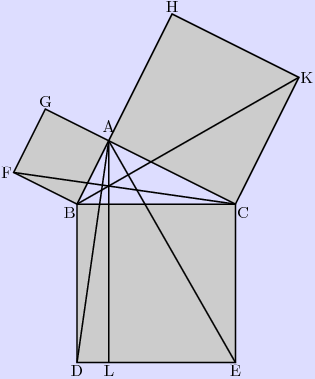
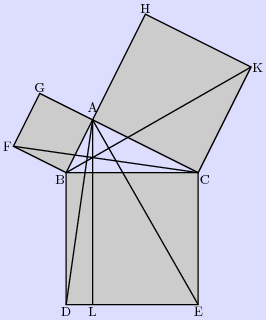
Some improvements: frontpage images shrunk and ff resizing removed, boxes made to line up at the tops of pages
git-svn-id: svn://127.0.0.1/pplsvn@802 8e462c0f-ee70-4953-a96e-5db927b55778

diff --git a/extras/website/source/download-archive.html b/extras/website/source/download-archive.html
@@ -1,6 +1,7 @@
 <<SET title: Archive>>
 <<INCLUDE header.html>>
 
+<div style="padding-top: 0.7em">
 <p>
 	This is a download page for older versions of PyXPlot.  The latest stable beta release is version <<VARIABLE current>> and can be downloaded <a href="<<ROOT>><<VARIABLE currentURI>>">here</a>.
 </p>
@@ -15,10 +16,10 @@ The following beta releases of PyXPlot are available:
 <table frame="box" rules="all">
 <tfoot><tr><td></td><td></td><td></td><td></td></tr></tfoot>
 <tbody>
-<tr><th>Version </th><th>Date</th><th>Files</th><th>Downloads</th></tr>
-<tr><td>0.7.1</td><td>November 17th 2009</td>     <td><a href="src/pyxplot_0.7.1.tar.gz">tar.gz</a> (2.4MB) </td><td><!--#include virtual="counter/0.7.1" --></td></tr>
-<tr><td>0.6.3.1</td><td>March 15th 2007</td>     <td><a href="src/pyxplot_0.6.3.1.tar.gz">tar.gz</a> (839kB) <a href="src/pyxplot_0.6.3.1_all.deb">deb</a> (1.3MB)</td><td><!--#include virtual="counter/0.6.3.1" --></td></tr>
-<tr><td>0.5.8</td><td>September 9th 2006</td>     <td><a href="src/pyxplot_0.5.8.tar.gz">tar.gz</a> (508kB) <a href="src/pyxplot_0.5.8-1_all.deb">deb</a> (1.6MB)</td><td><!--#include virtual="counter/0.5.8" --></td></tr>
+<tr><th>Version </th><th>Date</th><th>Files</th></tr>
+<tr><td>0.7.1</td><td>November 17th 2009</td>     <td><a href="src/pyxplot_0.7.1.tar.gz">tar.gz</a> (2.4MB) </td></tr>
+<tr><td>0.6.3.1</td><td>March 15th 2007</td>     <td><a href="src/pyxplot_0.6.3.1.tar.gz">tar.gz</a> (839kB) <a href="src/pyxplot_0.6.3.1_all.deb">deb</a> (1.3MB)</td></tr>
+<tr><td>0.5.8</td><td>September 9th 2006</td>     <td><a href="src/pyxplot_0.5.8.tar.gz">tar.gz</a> (508kB) <a href="src/pyxplot_0.5.8-1_all.deb">deb</a> (1.6MB)</td></tr>
 </tbody>
 </table>
 
@@ -33,30 +34,31 @@ general use. <!-- Version 0.6.x will appear here in due course.-->
 <table frame="box" rules="all">
 <tfoot><tr><td></td><td></td><td></td><td></td></tr></tfoot>
 <tr><th>Version</th><th>Date</th><th>Files</th><th>Downloads</th></tr>
-<tr><td>0.7.0</td><td>December 2nd 2008</td>     <td><a href="src/pyxplot_0.7.0.tar.gz">tar.gz</a> (1019kB) </td><td><!--#include virtual="counter/0.7.0" --></td></tr>
-<tr class='newsect'><td>0.6.3.1</td><td>March 15th 2007</td>     <td><a href="src/pyxplot_0.6.3.1.tar.gz">tar.gz</a> (839kB) <a href="src/pyxplot_0.6.3.1_all.deb">deb</a> (1.3MB)</td><td><!--#include virtual="counter/0.6.3.1" --></td></tr>
-<tr><td>0.6.3</td><td>February 26th 2007</td>     <td><a href="src/pyxplot_0.6.3.tar.gz">tar.gz</a> (839kB) <a href="src/pyxplot_0.6.3_all.deb">deb</a> (1.3MB)</td><td><!--#include virtual="counter/0.6.3" --></td></tr>
-<tr><td>0.6.2</td><td>January 19th 2007</td>     <td><a href="src/pyxplot_0.6.2.tar.gz">tar.gz</a> (548kB) <a href="src/pyxplot_0.6.2-1_all.deb">deb</a> (1.8MB)</td><td><!--#include virtual="counter/0.6.2" --></td></tr>
-<tr><td>0.6.1</td><td>December 27th 2006</td>     <td><a href="src/pyxplot_0.6.1.tar.gz">tar.gz</a> (548kB) <a href="src/pyxplot_0.6.1_all.deb">deb</a> (1.8MB)</td><td><!--#include virtual="counter/0.6.1" --></td></tr>
-<tr><td>0.6.0</td><td>November 13th 2006</td>     <td><a href="src/pyxplot_0.6.0.tar.gz">tar.gz</a> (530kB) <a href="src/pyxplot_0.6.0-2_all.deb">deb</a> (1.6MB)</td><td><!--#include virtual="counter/0.6.0" --></td></tr>
-<tr class='newsect'><td>0.5.8</td><td>September 9th 2006</td>     <td><a href="src/pyxplot_0.5.8.tar.gz">tar.gz</a> (508kB) <a href="src/pyxplot_0.5.8-1_all.deb">deb</a> (1.6MB)</td><td><!--#include virtual="counter/0.5.8" --></td></tr>
-<tr><td>0.5.7</td><td>August 26th 2006</td>     <td><a href="src/pyxplot_0.5.7.tar.gz">tar.gz</a> (507kB) <a href="src/pyxplot_0.5.7_all.deb">deb</a> (1.6MB)</td><td><!--#include virtual="counter/0.5.7" --></td></tr>
-<tr><td>0.5.6</td><td>August 18th 2006</td>     <td><a href="src/pyxplot_0.5.6.tar.gz">tar.gz</a> (497kB) <a href="src/pyxplot_0.5.6_all.deb">deb</a> (1.6MB)</td><td><!--#include virtual="counter/0.5.6" --></td></tr>
-<tr><td>0.5.5</td><td>July 25th 2006</td>     <td><a href="src/pyxplot_0.5.5.tar.gz">tar.gz</a> (478kB) <a href="src/pyxplot_0.5.5-2_all.deb">deb</a> (1.5MB)</td><td><!--#include virtual="counter/0.5.5" --></td></tr>
-<tr><td>0.5.4</td><td>July 3rd 2006</td>     <td><a href="src/pyxplot_0.5.4.tar.gz">tar.gz</a> (465kB) <a href="src/pyxplot_0.5.4-1_all.deb">deb</a> (1.5MB)</td><td><!--#include virtual="counter/0.5.4" --></td></tr>
-<tr><td>0.5.3</td><td>June 27th 2006</td>     <td><a href="src/pyxplot_0.5.3.tar.gz">tar.gz</a> (459kB)</td><td><!--#include virtual="counter/0.5.3" --></td></tr>
-<tr><td>0.5.2</td><td>June 14th 2006</td>     <td><a href="src/pyxplot_0.5.2.tar.gz">tar.gz</a> (450kB)</td><td><!--#include virtual="counter/0.5.2" --></td></tr>
-<tr><td>0.5.1</td><td>June 2nd 2006</td>     <td><a href="src/pyxplot_0.5.1.tar.gz">tar.gz</a> (436kB)</td><td><!--#include virtual="counter/0.5.1" --></td></tr>
-<tr><td>0.5.0</td><td>May 27th 2006</td>     <td><a href="src/pyxplot_0.5.0.tar.gz">tar.gz</a> (249kB)</td><td><!--#include virtual="counter/0.5.0" --></td></tr>
-<tr class='newsect'><td>0.4.3</td><td>May 18th 2006</td>     <td><a href="src/gnuplot_0.4.3.tar.gz">tar.gz</a> (73kB)</td><td><!--#include virtual="counter/0.4.3" --></td></tr>
-<tr><td>0.4.2</td><td>May 4th 2006</td>      <td><a href="src/gnuplot_0.4.2.tar.gz">tar.gz</a> (72kB)</td><td><!--#include virtual="counter/0.4.2" --></td></tr>
-<tr><td>0.4.1</td><td>May 1st 2006</td>      <td><a href="src/gnuplot_0.4.1.tar.gz">tar.gz</a> (66kB)</td><td><!--#include virtual="counter/0.4.1" --></td></tr>
-<tr><td>0.4.0</td><td>April 27th 2006</td>   <td><a href="src/gnuplot_0.4.0.tar.gz">tar.gz</a> (25kB)</td><td><!--#include virtual="counter/0.4.0" --></td></tr>
-<tr class='newsect'><td>0.3.2</td><td>April 14th 2006</td>   <td><a href="src/gnuplot_0.3.2.tar.gz">tar.gz</a> (22kB)</td><td><!--#include virtual="counter/0.3.2" --></td></tr>
-<tr><td>0.3.1</td><td>April 12th 2006</td>   <td><a href="src/gnuplot_0.3.1.tar.gz">tar.gz</a> (21kB)</td><td><!--#include virtual="counter/0.3.1" --></td></tr>
-<tr><td>0.3.0</td><td>April 12th 2006</td>   <td><a href="src/gnuplot_0.3.0.tar.gz">tar.gz</a> (21kB)</td><td><!--#include virtual="counter/0.3.0" --></td></tr>
-<tr class='newsect'><td>0.2.0</td><td>March 30th 2006</td>   <td><a href="src/gnuplot_0.2.0.tar.gz">tar.gz</a> (18kB)</td><td><!--#include virtual="counter/0.2.0" --></td></tr>
-<tr class='newsect'><td>0.1.0</td><td>February 26th 2006</td><td><a href="src/gnuplot_0.1.0.tar.gz">tar.gz</a> (16kB)</td><td><!--#include virtual="counter/0.1.0" --></td></tr>
+<tr><td>0.7.0</td><td>December 2nd 2008</td>     <td><a href="src/pyxplot_0.7.0.tar.gz">tar.gz</a> (1019kB) </td></tr>
+<tr class='newsect'><td>0.6.3.1</td><td>March 15th 2007</td>     <td><a href="src/pyxplot_0.6.3.1.tar.gz">tar.gz</a> (839kB) <a href="src/pyxplot_0.6.3.1_all.deb">deb</a> (1.3MB)</td></tr>
+<tr><td>0.6.3</td><td>February 26th 2007</td>     <td><a href="src/pyxplot_0.6.3.tar.gz">tar.gz</a> (839kB) <a href="src/pyxplot_0.6.3_all.deb">deb</a> (1.3MB)</td></tr>
+<tr><td>0.6.2</td><td>January 19th 2007</td>     <td><a href="src/pyxplot_0.6.2.tar.gz">tar.gz</a> (548kB) <a href="src/pyxplot_0.6.2-1_all.deb">deb</a> (1.8MB)</td></tr>
+<tr><td>0.6.1</td><td>December 27th 2006</td>     <td><a href="src/pyxplot_0.6.1.tar.gz">tar.gz</a> (548kB) <a href="src/pyxplot_0.6.1_all.deb">deb</a> (1.8MB)</td></tr>
+<tr><td>0.6.0</td><td>November 13th 2006</td>     <td><a href="src/pyxplot_0.6.0.tar.gz">tar.gz</a> (530kB) <a href="src/pyxplot_0.6.0-2_all.deb">deb</a> (1.6MB)</td></tr>
+<tr class='newsect'><td>0.5.8</td><td>September 9th 2006</td>     <td><a href="src/pyxplot_0.5.8.tar.gz">tar.gz</a> (508kB) <a href="src/pyxplot_0.5.8-1_all.deb">deb</a> (1.6MB)</td></tr>
+<tr><td>0.5.7</td><td>August 26th 2006</td>     <td><a href="src/pyxplot_0.5.7.tar.gz">tar.gz</a> (507kB) <a href="src/pyxplot_0.5.7_all.deb">deb</a> (1.6MB)</td></tr>
+<tr><td>0.5.6</td><td>August 18th 2006</td>     <td><a href="src/pyxplot_0.5.6.tar.gz">tar.gz</a> (497kB) <a href="src/pyxplot_0.5.6_all.deb">deb</a> (1.6MB)</td></tr>
+<tr><td>0.5.5</td><td>July 25th 2006</td>     <td><a href="src/pyxplot_0.5.5.tar.gz">tar.gz</a> (478kB) <a href="src/pyxplot_0.5.5-2_all.deb">deb</a> (1.5MB)</td></tr>
+<tr><td>0.5.4</td><td>July 3rd 2006</td>     <td><a href="src/pyxplot_0.5.4.tar.gz">tar.gz</a> (465kB) <a href="src/pyxplot_0.5.4-1_all.deb">deb</a> (1.5MB)</td></tr>
+<tr><td>0.5.3</td><td>June 27th 2006</td>     <td><a href="src/pyxplot_0.5.3.tar.gz">tar.gz</a> (459kB)</td></tr>
+<tr><td>0.5.2</td><td>June 14th 2006</td>     <td><a href="src/pyxplot_0.5.2.tar.gz">tar.gz</a> (450kB)</td></tr>
+<tr><td>0.5.1</td><td>June 2nd 2006</td>     <td><a href="src/pyxplot_0.5.1.tar.gz">tar.gz</a> (436kB)</td></tr>
+<tr><td>0.5.0</td><td>May 27th 2006</td>     <td><a href="src/pyxplot_0.5.0.tar.gz">tar.gz</a> (249kB)</td></tr>
+<tr class='newsect'><td>0.4.3</td><td>May 18th 2006</td>     <td><a href="src/gnuplot_0.4.3.tar.gz">tar.gz</a> (73kB)</td></tr>
+<tr><td>0.4.2</td><td>May 4th 2006</td>      <td><a href="src/gnuplot_0.4.2.tar.gz">tar.gz</a> (72kB)</td></tr>
+<tr><td>0.4.1</td><td>May 1st 2006</td>      <td><a href="src/gnuplot_0.4.1.tar.gz">tar.gz</a> (66kB)</td></tr>
+<tr><td>0.4.0</td><td>April 27th 2006</td>   <td><a href="src/gnuplot_0.4.0.tar.gz">tar.gz</a> (25kB)</td></tr>
+<tr class='newsect'><td>0.3.2</td><td>April 14th 2006</td>   <td><a href="src/gnuplot_0.3.2.tar.gz">tar.gz</a> (22kB)</td></tr>
+<tr><td>0.3.1</td><td>April 12th 2006</td>   <td><a href="src/gnuplot_0.3.1.tar.gz">tar.gz</a> (21kB)</td></tr>
+<tr><td>0.3.0</td><td>April 12th 2006</td>   <td><a href="src/gnuplot_0.3.0.tar.gz">tar.gz</a> (21kB)</td></tr>
+<tr class='newsect'><td>0.2.0</td><td>March 30th 2006</td>   <td><a href="src/gnuplot_0.2.0.tar.gz">tar.gz</a> (18kB)</td></tr>
+<tr class='newsect'><td>0.1.0</td><td>February 26th 2006</td><td><a href="src/gnuplot_0.1.0.tar.gz">tar.gz</a> (16kB)</td></tr>
 </table>
+</div>
 
 <<INCLUDE footer.html>>

diff --git a/extras/website/source/index.html b/extras/website/source/index.html
@@ -30,9 +30,9 @@ calculator.
 			is capable of, more of which can be found in the <a
 			href="examples">examples</a>.
 		</p>
-		<img width="300px" src="<<IMGDIR>>ex_hrdiagram.png" />
-		<img width="300px" src="<<IMGDIR>>ex_euclid_I_47.png" />
-		<img width="300px" src="<<IMGDIR>>ex_fft.png" />
+		<img style="padding-right: 0;" src="<<IMGDIR>>ex_hrdiagram.png" />
+		<img style="padding-right: 0;" src="<<IMGDIR>>ex_euclid_I_47.png" />
+		<img style="padding-right: 0;" src="<<IMGDIR>>ex_fft.png" />
 	</div>
 
 

diff --git a/extras/website/source/download-older.html b/extras/website/source/download-older.html
@@ -1,6 +1,7 @@
 <<SET title: Download>>
 <<INCLUDE header.html>>
 
+<div style="padding-top: 0.7em">
 <p>
 	This is a download page for an older version of PyXPlot.  The latest stable beta release is version <<VARIABLE current>> and can be downloaded <a href="<<ROOT>><<VARIABLE currentURI>>">here</a>.
 </p>
@@ -13,6 +14,7 @@
 <p>
     An <a href="<<ROOT>>archive.html">archive</a> of old PyXPlot releases is also available.
 </p>
+</div>
 
 
 <<INCLUDE footer.html>>

diff --git a/extras/website/source/download-latest.html b/extras/website/source/download-latest.html
@@ -1,6 +1,7 @@
 <<SET title: Download>>
 <<INCLUDE header.html>>
 
+<div style="padding-top: 0.7em">
 <p>
 	 The latest stable beta release of PyXPlot is version <<VARIABLE version>>
     and is available to download as a <a href="<<ROOT>>src/pyxplot_<<VARIABLE version>>.tar.gz">gzipped tar file</a>.
@@ -9,6 +10,7 @@
 <p>
     An <a href="<<ROOT>>archive.html">archive</a> of old PyXPlot releases is also available.
 </p>
+</div>
 
 
 <<INCLUDE footer.html>>

diff --git a/extras/website/source/doc.html b/extras/website/source/doc.html
@@ -1,10 +1,12 @@
 <<SET title: Documentation>>
 <<INCLUDE header.html>>
 
+<div style="padding-top: 0.7em">
 <p>
 	This documentation describes the <<VARIABLE version>> stable beta release of PyXPlot.  The
    <a href="pyxplot.pdf">manual</a> can be downloaded as a PDF file or <a href="html/">browsed online</a>.
 </p>
+</div>
 
 
 <<INCLUDE footer.html>>

diff --git a/extras/website/source/authors.html b/extras/website/source/authors.html
@@ -1,6 +1,7 @@
 <<SET title: Authors, credits and license>>
 <<INCLUDE header.html>>
 
+		<div style="padding-top: 0.7em">
 <h3>
 	Authors and credits
 </h3>
@@ -41,4 +42,5 @@
 	href="http://www.gnu.org/copyleft/gpl.html">Gnu General Public License</a>,
 	Version 2.
 </p>
+</div>
 <<INCLUDE footer.html>>

diff --git a/extras/website/source/news.html b/extras/website/source/news.html
@@ -1,6 +1,6 @@
 <<SET title: News>>
 <<INCLUDE header.html>>
-		<div style="min-height: 599px">
+		<div style="min-height: 599px; padding-top: 0.7em">
 		<h3> News </h3>
 		<ul>
 			<li>19/5/2010 - <b>PyXPlot 0.8.0</b><br />

diff --git a/extras/website/source/include/examples-root.html b/extras/website/source/include/examples-root.html
@@ -6,9 +6,4 @@
 
 <<EXAMPLES>>
 
-			
-		<p style="clear: both">I want one of these NOW and I want it to look like <a href="http://zeus.jesus.cam.ac.uk/homepages/">THIS!!!!</a></p>
-	
-
-
 <<INCLUDE footer.html>>
